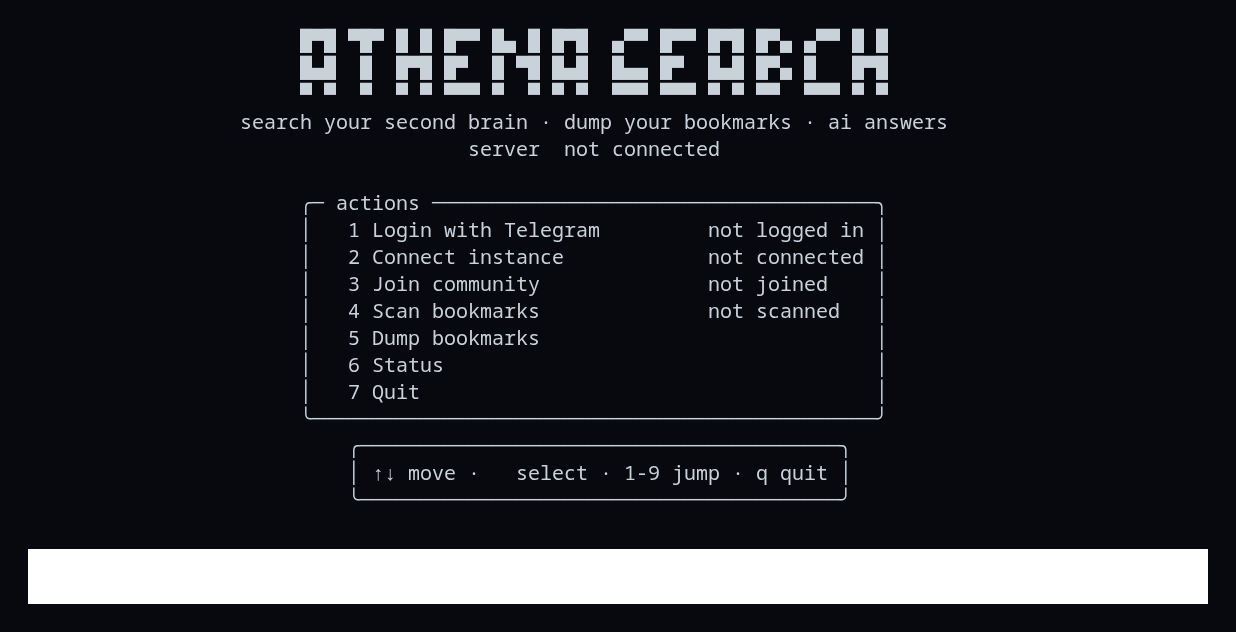
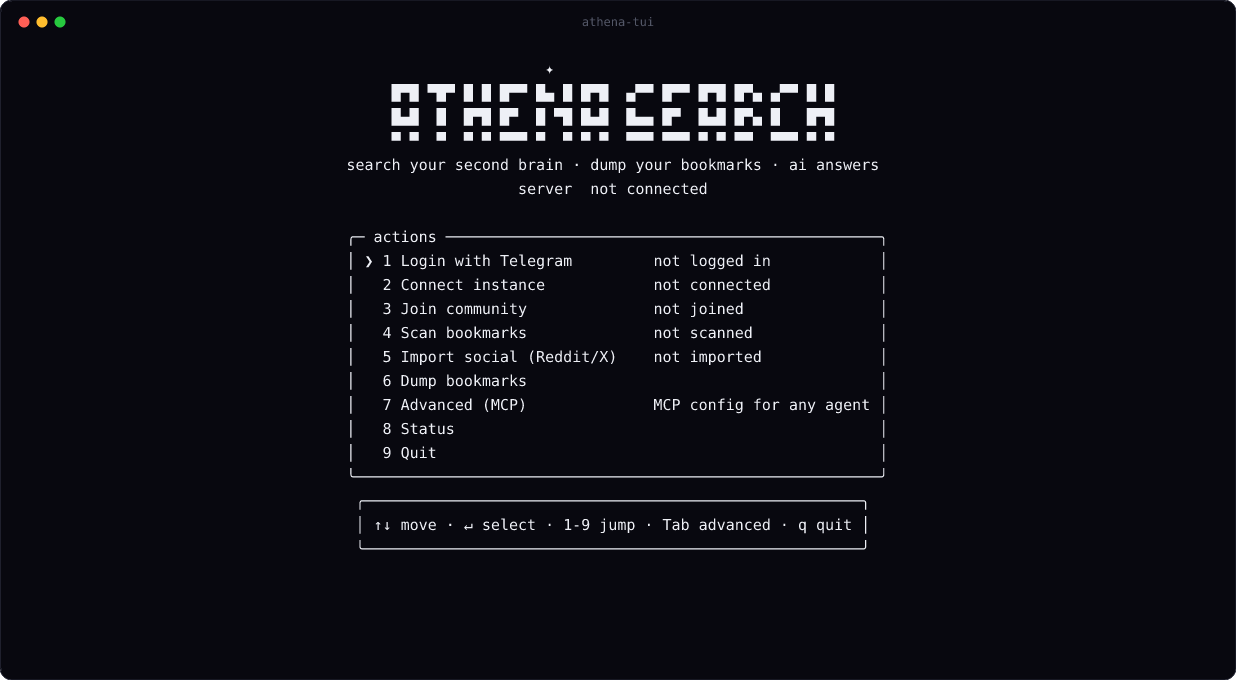
docs: update README with MCP guide, social imports, and latest TUI capture

diff --git a/README.md b/README.md
@@ -20,11 +20,6 @@ Athena is a self-hostable bookmark and document archive. Save from the web UI, T
 <p align="center">
   <em>Live captures — public pages only; no accounts, tokens, or private brains shown.</em>
 </p>
-<p align="center">
-  <img src="screenshots/screenshot-2026-08-21_14-28-39.png" width="32%" alt="Athena app view">
-  <img src="screenshots/screenshot-2026-08-21_14-28-56.png" width="32%" alt="Athena app view">
-  <img src="screenshots/screenshot-2026-08-21_14-29-24.png" width="32%" alt="Athena app view">
-</p>
 
 > ⭐ **Like Athena?** [Star the repo](https://github.com/JuznemHub/Athena-Search/stargazers) and test it out extensively — real usage is what makes it better.
 >
@@ -35,7 +30,8 @@ Athena is a self-hostable bookmark and document archive. Save from the web UI, T
 ## Juznem's favourite features
 
 - **📚 Dump all your browser bookmarks straight into Athena via the TUI** — Chrome, Chromium, Edge, Brave, Opera, Vivaldi, Arc and Firefox are detected automatically; scan, pick folders, and dump everything into your personal or community brain from the terminal. No export-file gymnastics.
-- **🧠 Advanced (MCP) mode for any agent** — press `Tab` in the TUI and you get a minimal `athena` MCP config for Hermes, Claude Code, Codex, or any MCP host: grounded search, citations with `[#n]`, paragraph-level document lookup (`para_idx`).
+- **🐦 Reddit & X (Twitter) bookmark imports** — Import saved posts, bookmarks, and likes from Reddit (via [Reddit-Fetch](https://github.com/akashpandey/Reddit-Fetch)) and X / Twitter (official archive or [TweetNook](https://github.com/GezerWezer/TweetNook) export) directly into your brain. Outside links in posts become distinct bookmarks, and the TUI setup remembers your paths for future syncs.
+- **🧠 Model Context Protocol (MCP) server for any agent** — Wire your second brain into Claude Code, Hermes, Codex, Cursor, or any MCP host: grounded semantic search, paragraph-level chunk lookups (`para_idx`), citations with `[#n]`, and rank-scoped access. Press `Tab` in the TUI or run `node tui/src/mcp-athena.js --config`.
 - **🏠 Self-host it for yourself — or run your own Telegram community** — full control end-to-end: PostgreSQL storage, your own bot, rank hierarchy (GOD / owner / admin / member), approve whom to add, kick/ban with automatic sync to Telegram group presence, per-community brains, backups to Telegram, and GOD-only switches like AI credentials and channel targets.
 - **📡 Live cloning of any Telegram channel, group — even a single forum topic** — powered by a userbot session or a linked bot: links, documents (pdf/epub/docx/…), button links, and text posts land in your brain automatically, with GOD-rank targets (community / personal / both), one-command history backfill by id range or topic, a VPS media vault, per-session rollback, and honest live progress bars.
 - *…and much more:* Meilisearch acceleration, pgvector paragraph search, multi-agent MCP memory, streaming AI answers grounded in your own sources, themes, accent colors, and a zero-build frontend.
@@ -46,11 +42,12 @@ Athena is a self-hostable bookmark and document archive. Save from the web UI, T
 - Searches titles, URLs, notes, tags, and document content across the complete PostgreSQL corpus.
 - Uses optional [Meilisearch](https://www.meilisearch.com/) as a fast derived index; PostgreSQL remains the source of truth and the fallback.
 - Answers questions with retrieval-augmented context and source links.
-- Supports OpenAI-compatible gateways, Anthropic, OpenRouter, OpenCode Zen, Groq, and local routers such as [OmniRoute](https://github.com/df4p/omniroute).
+- Supports OpenAI-compatible gateways, Anthropic, OpenRouter, Groq, and local routers such as [OmniRoute](https://github.com/df4p/omniroute).
+- Exposes a native Model Context Protocol (MCP) server so AI agents (Claude Code, Hermes, Codex, Cursor) can query your saved collection.
+- Imports bookmarks from 8+ desktop browsers, Reddit saved posts, and X (Twitter) archives via a zero-dependency terminal UI.
 - Provides personal and community brains with rank-aware permissions, voting, reports, and Telegram group membership gates.
 - Clones Telegram channels, groups, and individual forum topics into your brain — links, documents (pdf/epub/docx/…), and text posts — with GOD-rank targets (community / personal / both) and one-time history backfill.
 - Grounds every AI answer in retrieved sources and rejects responses containing URLs outside your saved set.
-- Includes a zero-build terminal UI for bookmark import and MCP-powered AI sessions.
 
 ## Quick start
 
@@ -309,14 +306,76 @@ Chromium is optional. If it is missing, disabled, or fails, Athena keeps the saf
 
 ## Terminal UI
 
-[`athena-tui`](tui/README.md) imports browser bookmarks and export files without requiring a browser session on the server.
+[`athena-tui`](tui/README.md) is a zero-dependency CLI client for scanning and importing your bookmarks and archives directly into Athena.
 
 ```bash
 npm install -g athena-tui
 athena-tui
 ```
 
-It supports Chrome, Chromium, Edge, Brave, Opera, Vivaldi, Arc, Firefox, and explicit export files. `Tab` opens the advanced AI/MCP view when configured; the website and database can stay on a VPS while the TUI runs locally.
+```text
+                                    ✦
+                   █▀█ ▀█▀ █ █ █▀▀ █▄ █ █▀█  ▄▀▀ █▀▀ █▀█ █▀▄ ▄▀▀ █ █
+                   █▄█  █  █▀█ █▀  █ ▀█ █▄█  █▄▄ █▀  █▄█ █▀▄ █   █▀█
+                   ▀ ▀  ▀  ▀ ▀ ▀▀▀ ▀  ▀ ▀ ▀  ▀▀▀ ▀▀▀ ▀ ▀ ▀▀  ▀▀▀ ▀ ▀
+              search your second brain · dump your bookmarks · ai answers
+                                 server  not connected
+
+              ╭─ actions ────────────────────────────────────────────────╮
+              │ ❯ 1 Login with Telegram         not logged in            │
+              │   2 Connect instance            not connected            │
+              │   3 Join community              not joined               │
+              │   4 Scan bookmarks              not scanned              │
+              │   5 Import social (Reddit/X)    not imported             │
+              │   6 Dump bookmarks                                       │
+              │   7 Advanced (MCP)              MCP config for any agent │
+              │   8 Status                                               │
+              │   9 Quit                                                 │
+              ╰──────────────────────────────────────────────────────────╯
+               ╭───────────────────────────────────────────────────────╮
+               │ ↑↓ move · ↵ select · 1-9 jump · Tab advanced · q quit │
+               ╰───────────────────────────────────────────────────────╯
+```
+
+### Browser and social imports
+
+- **Browser bookmarks**: auto-detects profiles across Chrome, Chromium, Edge, Brave, Opera, Vivaldi, Arc, and Firefox (`places.sqlite` read via `node:sqlite`), including Flatpak and Snap installations. Custom roots can be supplied via `ATHENA_BOOKMARK_ROOTS`.
+- **Reddit saved posts**: guided setup integrates with [Reddit-Fetch](https://github.com/akashpandey/Reddit-Fetch), handling OAuth and parsing `saved_posts.json` or `.html`. Posts are automatically tagged `#reddit` and `#r-<subreddit>`.
+- **X (Twitter) archives**: reads official Twitter archive directories (`data/tweets.js`, `data/like.js`) or [TweetNook](https://github.com/GezerWezer/TweetNook) JSON exports. External links in tweets are saved as distinct entries, while text-only posts and likes save as links to the tweet tagged `#x`.
+- **Path persistence**: verified paths are saved in `~/.config/athena-tui/config.json` so subsequent syncs run without re-prompting. Headless or scripted environments can set `REDDIT_EXPORT_PATH`, `X_ARCHIVE_PATH`, or `TWEETNOOK_EXPORT_PATH`.
+
+## Model Context Protocol (MCP)
+
+Athena runs a native Model Context Protocol (MCP) stdio server, connecting your brain directly to AI agent hosts like Claude Code, Hermes, Codex, Cursor, and Antigravity.
+
+### Capabilities and tools
+
+- `athena_search` — search personal and community collections using hybrid full-text and semantic matching, with domain and tag filters.
+- `athena_get_chunk` — paragraph-level retrieval (`para_idx`) to pull exact context blocks from long-form documents and PDFs.
+- `athena_list_sources` — inspect indexed channels, groups, and collections.
+
+### Agent configuration
+
+Run `node tui/src/mcp-athena.js --config` or select **Advanced (MCP)** (or press `Tab`) in the TUI to print your configuration snippet.
+
+Example configuration for Claude Code or desktop MCP clients:
+
+```json
+{
+  "mcpServers": {
+    "athena": {
+      "command": "node",
+      "args": ["/path/to/Athena-Search/tui/src/mcp-athena.js"],
+      "env": {
+        "ATHENA_INSTANCE": "https://athena.example.org",
+        "ATHENA_TOKEN": "your_session_token"
+      }
+    }
+  }
+}
+```
+
+Ranks apply: `personal` collection access requires GOD rank, while community collections are accessible to active members.
 
 ## Permissions
 
@@ -364,10 +423,6 @@ npm run test:unit
 
 The repository’s CI also runs the TUI test suite and secret scanning. PostgreSQL is required for runtime integration checks; the unit retrieval test is self-contained.
 
-## Note on Discord
-
-You will see a **Discord login** option in the UI. It is **not tested and not supported yet** — do not use it. Telegram login is the supported auth path.
-
 ## Roadmap
 
 - [ ] **RSS support** — live indexing of RSS/Atom feeds with change tracking: new items land automatically, and edits/removals on the source site are reflected (content updated or removed from the DB) instead of leaving stale copies.
@@ -379,9 +434,11 @@ You will see a **Discord login** option in the UI. It is **not tested and not su
 
 Athena stands on the shoulders of these projects — their code and ideas are part of this codebase:
 
-- [OpenCode](https://github.com/anomalyco/opencode) — the CLI agent harness; Athena's MCP integration and TUI advanced mode build on its patterns.
+- [modelcontextprotocol](https://modelcontextprotocol.io/) — open specification for AI agent context and memory.
 - [@firecrawl/anydoc](https://github.com/firecrawl/anydoc) — Rust document converter (pdf/docx/pptx/xlsx/odt/rtf/epub → Markdown).
 - [binthere](https://github.com/nxfu/binthere) — the TUI app whose wordmark, box menus, cursor, and spinner `athena-tui` is based on.
+- [Reddit-Fetch](https://github.com/akashpandey/Reddit-Fetch) — Reddit saved post extraction for terminal imports.
+- [TweetNook](https://github.com/GezerWezer/TweetNook) — X archive export format and parsing.
 - [gramjs](https://github.com/gram-js/gramjs) — Telegram user-session client for history backfill.
 - [Meilisearch](https://www.meilisearch.com/) — optional derived search index.
 - [pgvector](https://github.com/pgvector/pgvector) — embedding similarity for paragraph-level document search.

diff --git a/tui/README.md b/tui/README.md
@@ -22,18 +22,20 @@ bookmark extraction covers Chromium-family browsers and Firefox.
               search your second brain · dump your bookmarks · ai answers
                                  server  not connected
 
-                   ╭─ actions ─────────────────────────────────────╮
-                   │ ❯ 1 Login with Telegram         not logged in │
-                   │   2 Connect instance            not connected │
-                   │   3 Join community              not joined    │
-                   │   4 Scan bookmarks              not scanned   │
-                   │   5 Dump bookmarks                            │
-                   │   6 Status                                    │
-                   │   7 Quit                                      │
-                   ╰───────────────────────────────────────────────╯
-                       ╭────────────────────────────────────────╮
-                       │ ↑↓ move · ↵ select · 1-9 jump · q quit │
-                       ╰────────────────────────────────────────╯
+              ╭─ actions ────────────────────────────────────────────────╮
+              │ ❯ 1 Login with Telegram         not logged in            │
+              │   2 Connect instance            not connected            │
+              │   3 Join community              not joined               │
+              │   4 Scan bookmarks              not scanned              │
+              │   5 Import social (Reddit/X)    not imported             │
+              │   6 Dump bookmarks                                       │
+              │   7 Advanced (MCP)              MCP config for any agent │
+              │   8 Status                                               │
+              │   9 Quit                                                 │
+              ╰──────────────────────────────────────────────────────────╯
+               ╭───────────────────────────────────────────────────────╮
+               │ ↑↓ move · ↵ select · 1-9 jump · Tab advanced · q quit │
+               ╰───────────────────────────────────────────────────────╯
 ```
 
 ## Requirements
